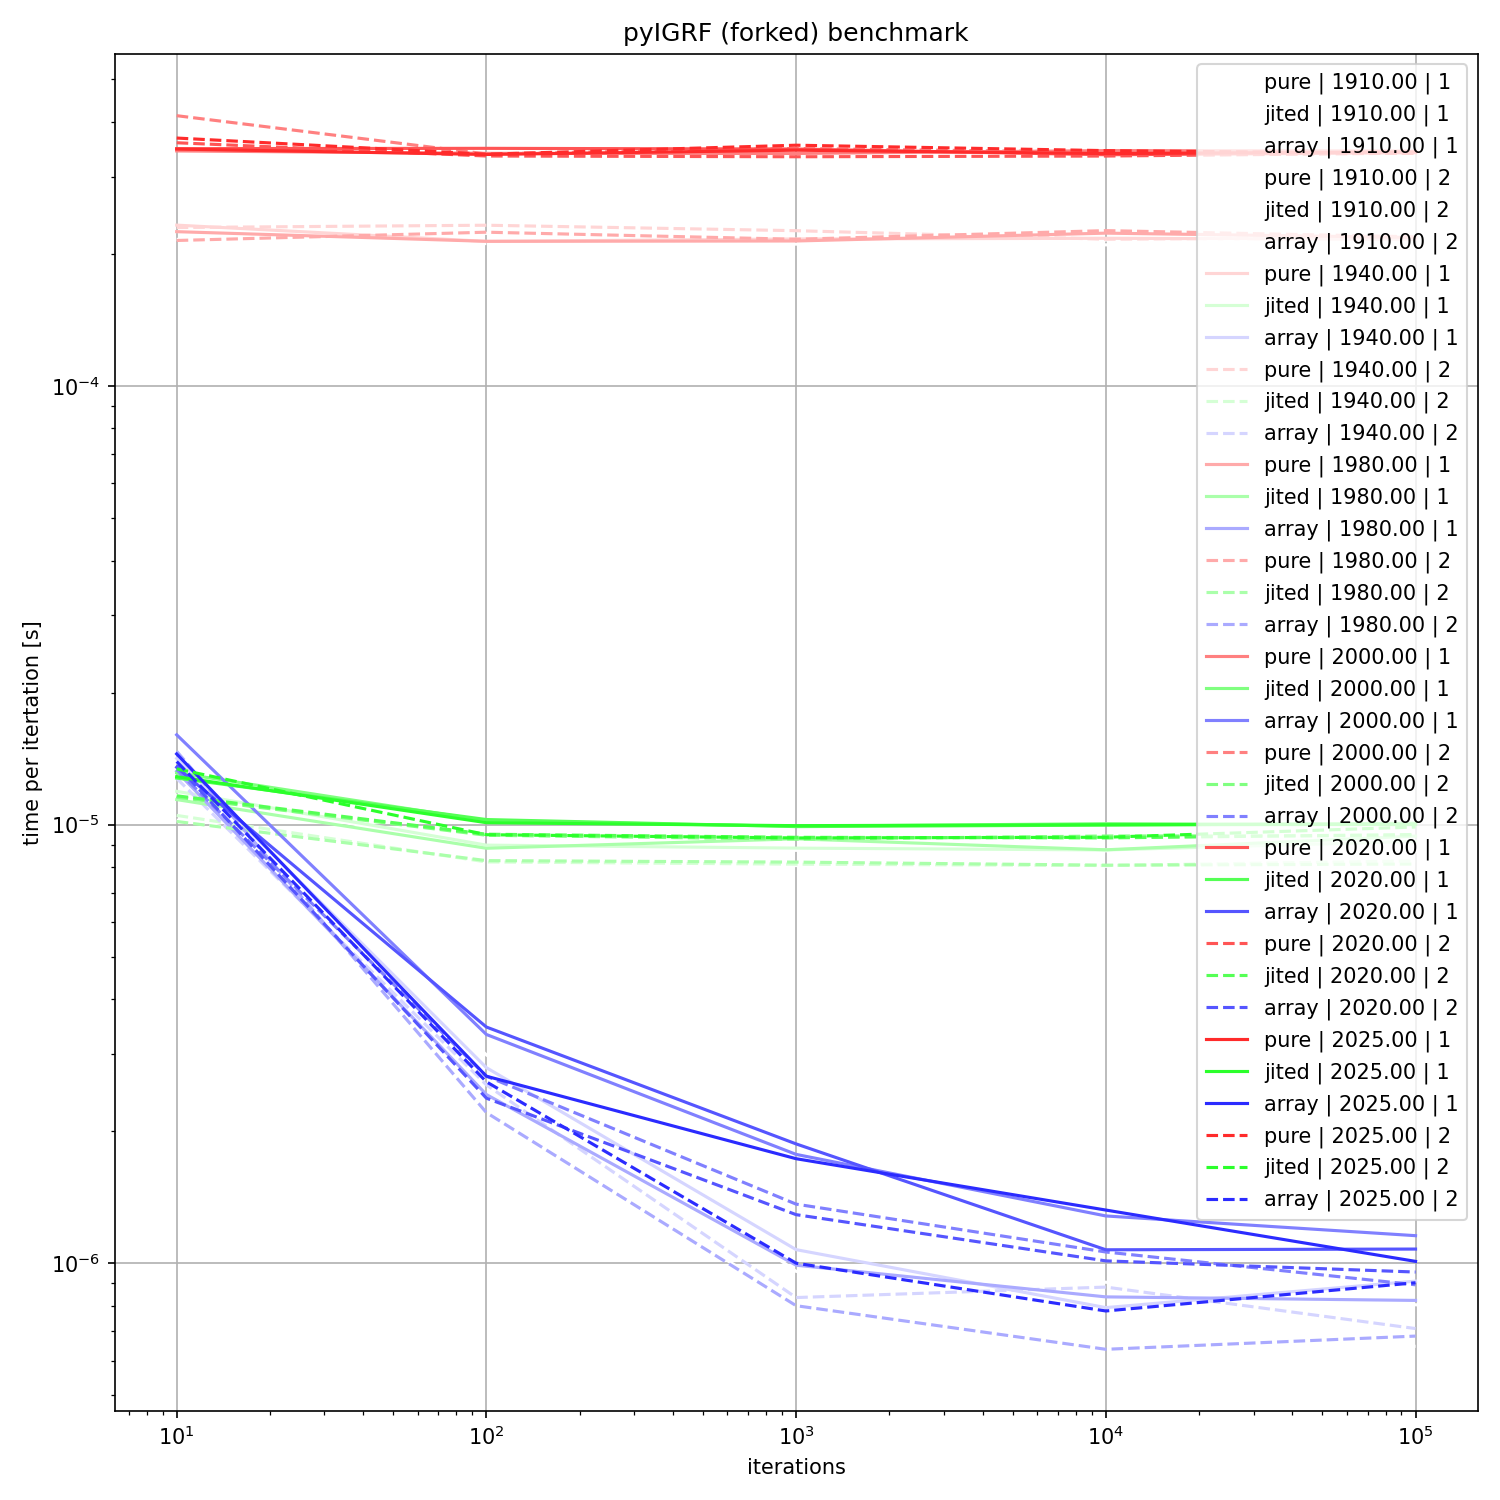
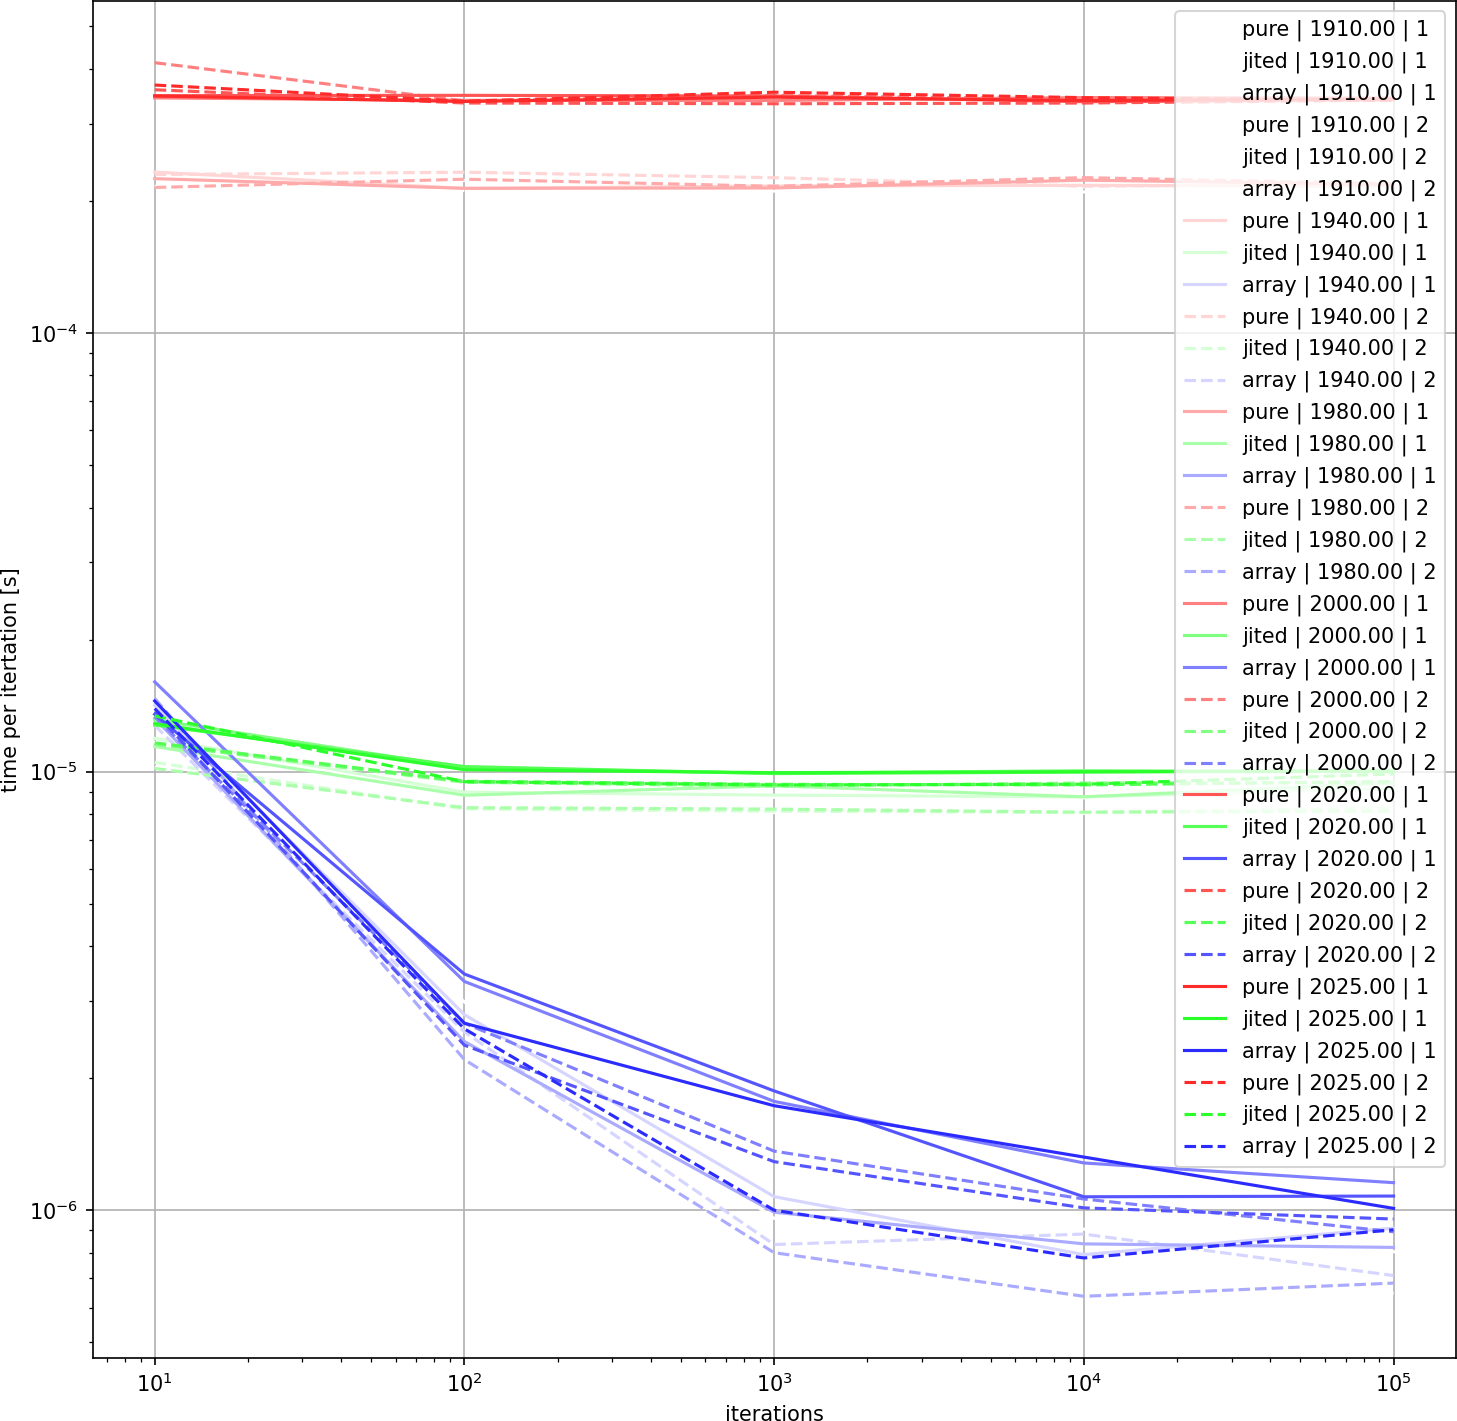
project rename

Changed region(s): [[0.0, 0.0, 1.0, 1.0], [0.3089, 0.2167, 0.3397, 0.2787]]

diff --git a/src/pyIGRF/__init__.py b/src/pyIGRF/__init__.py
@@ -1,10 +1,10 @@
 # -*- coding: utf-8 -*-
 
 """
-`pyIGRF` is a Python package offering the IGRF-13 (International Geomagnetic Reference Field) model. You can use it to calculate the magnetic field's intensity and to transform coordinates between GeoGraphical and GeoMagnetic. The package does not require any Fortran compiler - it is pure Python.
+`pyCRGI` is a Python package offering the IGRF-13 (International Geomagnetic Reference Field) model. You can use it to calculate the magnetic field's intensity and to transform coordinates between GeoGraphical and GeoMagnetic. The package does not require any Fortran compiler - it is pure Python.
 """
 
-__author__ = 'pyIGRF authors'
+__author__ = 'pyCRGI authors'
 
 from ._coeffs import (
     GH,

diff --git a/benchmark/measure.py b/benchmark/measure.py
@@ -12,9 +12,9 @@ import numpy as np
 from tqdm import tqdm
 from typeguard import typechecked
 
-from pyIGRF.pure import get_syn as pure_get_syn
-from pyIGRF.jited import get_syn as jited_get_syn
-from pyIGRF.array import get_syn as array_get_syn
+from pyCRGI.pure import get_syn as pure_get_syn
+from pyCRGI.jited import get_syn as jited_get_syn
+from pyCRGI.array import get_syn as array_get_syn
 
 
 FLD = os.path.dirname(__file__)
@@ -143,7 +143,7 @@ def main():
         )
 
     ax.legend()
-    ax.set_title('pyIGRF (forked) benchmark')
+    ax.set_title('pyCRGI benchmark')
     ax.set_xlabel('iterations')
     ax.set_ylabel('time per itertation [s]')
     ax.grid()

diff --git a/setup.py b/setup.py
@@ -11,15 +11,15 @@ with open("README.md", mode = 'r', encoding = 'utf-8') as f:
 
 
 setup(
-    name = "pyIGRF",
+    name = "pyCRGI",
     version = "0.4.0",
-    author = "pyIGRF authors",
+    author = "pyCRGI authors",
     author_email = "ernst@pleiszenburg.de",
     description = "IGRF-13 Model in Python",
     long_description = readme,
     long_description_content_type = "text/markdown",
     license = "MIT",
-    url = "https://github.com/pleiszenburg/pyIGRF",
+    url = "https://github.com/pleiszenburg/pyCRGI",
     packages = find_packages(SRC_DIR),
     package_dir = {"": SRC_DIR},
     install_requires = [],

diff --git a/tests/test_baseline.py b/tests/test_baseline.py
@@ -4,12 +4,12 @@ from math import isclose
 
 import pytest
 
-from pyIGRF.pure import (
+from pyCRGI.pure import (
     get_coeffs as pure_get_coeffs,
     get_value as pure_get_value,
     get_variation as pure_get_variation,
 )
-from pyIGRF.jited import (
+from pyCRGI.jited import (
     get_coeffs as jited_get_coeffs,
     get_value as jited_get_value,
     get_variation as jited_get_variation,

diff --git a/verification/verify.py b/verification/verify.py
@@ -15,11 +15,11 @@ from tqdm import tqdm
 from typeguard import typechecked
 import zarr
 
-from pyIGRF.pure import (
+from pyCRGI.pure import (
     get_syn as pure_get_syn,
     get_value as pure_get_value,
 )
-from pyIGRF.jited import (
+from pyCRGI.jited import (
     get_syn as jited_get_syn,
     get_value as jited_get_value,
 )

diff --git a/src/pyIGRF/_debug.py b/src/pyIGRF/_debug.py
@@ -3,7 +3,7 @@
 import os
 import warnings
 
-if os.environ.get('PYIGRF_DEBUG', '0') == '1':
+if os.environ.get('PYCGIR_DEBUG', '0') == '1':
     DEBUG = True
     from typeguard import typechecked
     warnings.warn("running in debug mode with activated run-time type checks", RuntimeWarning)

diff --git a/verification/igrf12syn_old_cleanup.py b/verification/igrf12syn_old_cleanup.py
@@ -2,7 +2,7 @@
 
 from math import sin, cos, sqrt
 
-from pyIGRF import GH
+from pyCRGI import GH
 
 
 def igrf12syn_old(isv, date, itype, alt, colat, elong):

diff --git a/tests/test_array.py b/tests/test_array.py
@@ -3,7 +3,7 @@
 import numpy as np
 import pytest
 
-from pyIGRF import array, jited
+from pyCRGI import array, jited
 
 
 ITERATIONS = 10_000

diff --git a/verification/igrf12syn_old.py b/verification/igrf12syn_old.py
@@ -4,7 +4,7 @@ from math import sin, cos, sqrt
 
 from goto import with_goto
 
-from pyIGRF import GH
+from pyCRGI import GH
 
 
 @with_goto

diff --git a/README.md b/README.md
@@ -1,11 +1,11 @@
-# pyIGRF (forked)
+# pyCRGI
 
-**This is a cleaned-up and modernized fork of ``pyIGRF``. Be aware that there are a number of small function and module name differences to the original ``pyIGRF`` package. The fork's main goals are verified results, tests, speed and ease of maintainability. This is work in progress.**
+**``pyCRGI`` is a cleaned-up and modernized fork of ``pyIGRF``. Be aware that there are a number of small function and module name differences to the original ``pyIGRF`` package. The fork's main goals are verified results, tests, speed and ease of maintainability. This is work in progress.**
 
 - [x] package structure cleanup
 - [x] type annotations
 - [x] doc strings completed and prepared for Sphinx autodoc
-- [x] debug mode via environment variable `PYIGRF_DEBUG=1`
+- [x] debug mode via environment variable `PYCGIR_DEBUG=1`
 - [x] pure Python 3 implementation without dependency to `numpy`
 - [x] JIT-compiled implementation depending on `numba` and `numpy`, installation target `jited`
 - [x] array implementation depending on `numba` and `numpy`, installation target `array`
@@ -16,16 +16,16 @@
 
 ![benchmark](benchmark/plot.png?raw=true "benchmark")
 
-## What is pyIGRF?
+## What is pyCRGI?
 
-`pyIGRF` is a Python package offering the IGRF-13 ([International Geomagnetic Reference Field](https://en.wikipedia.org/wiki/International_Geomagnetic_Reference_Field)) model. You can use it to calculate the magnetic field's intensity and to transform coordinates between GeoGraphical and GeoMagnetic. The package offers different implementations, pure Python and Python JIT-compiled via `numba`.
+`pyCRGI` is a Python package offering the IGRF-13 ([International Geomagnetic Reference Field](https://en.wikipedia.org/wiki/International_Geomagnetic_Reference_Field)) model. You can use it to calculate the magnetic field's intensity and to transform coordinates between GeoGraphical and GeoMagnetic. The package offers different implementations, pure Python and Python JIT-compiled via `numba`. The project's name is literally the French equivalent of `pyIGRF`, the project that `pyCRGI` was once forked from: Champ de Référence Géomagnétique International.
 
 ## How to Install?
 
 Use pip to install the latest development version from Github:
 
 ```bash
-pip install git+https://github.com/pleiszenburg/pyIGRF.git@master
+pip install git+https://github.com/pleiszenburg/pyCRGI.git@master
 ```
 
 ## How to Use it?
@@ -33,11 +33,11 @@ pip install git+https://github.com/pleiszenburg/pyIGRF.git@master
 First import the package, either as pure Python 3 or JIT-compiled via `numba` and `numpy`:
 
 ```python
-from pyIGRF.pure import get_value, get_variation # pure Python 3
+from pyCRGI.pure import get_value, get_variation # pure Python 3
 # or
-from pyIGRF.jited import get_value, get_variation # JIT-compiled via `numba` and `numpy`
+from pyCRGI.jited import get_value, get_variation # JIT-compiled via `numba` and `numpy`
 # or
-from pyIGRF.array import get_value, get_variation # array implementation via `numba` and `numpy`
+from pyCRGI.array import get_value, get_variation # array implementation via `numba` and `numpy`
 ```
 
 You can calculate the magnetic field's intensity:
